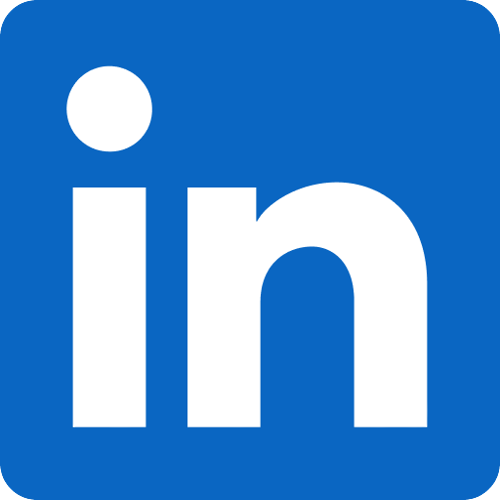
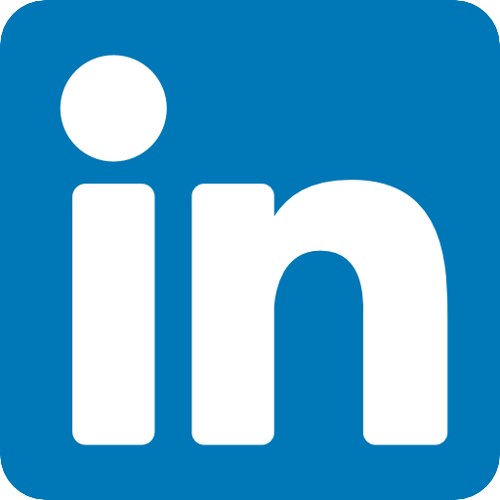
instagram + linkedin link added to nav

diff --git a/html/menagement.html b/html/menagement.html
@@ -15,6 +15,13 @@
         <a class="logo_white_link" href="../index.html">
             <img src="../imgs/logo_white.png" class="logo_white">
         </a>
+        <a class="linkedin-logo" href="https://www.linkedin.com/company/fsuminho/">
+            <img src="../imgs/linkedin.png" class="linkedin-logo">
+        </a>
+
+        <a class="insta-logo" href="https://www.instagram.com/fsuminho/">
+            <img src="../imgs/insta.png">
+        </a>
 
         <a class="contact-button" href="../html/contact.html">
             Contact

diff --git a/html/parteners.html b/html/parteners.html
@@ -16,6 +16,14 @@
             <img src="../imgs/logo_white.png" class="logo_white">
         </a>
 
+        <a class="linkedin-logo" href="https://www.linkedin.com/company/fsuminho/">
+            <img src="../imgs/linkedin.png" class="linkedin-logo">
+        </a>
+
+        <a class="insta-logo" href="https://www.instagram.com/fsuminho/">
+            <img src="../imgs/insta.png">
+        </a>
+
         <a class="contact-button" href="../html/contact.html">
             Contact
         </a>

diff --git a/css/nav.css b/css/nav.css
@@ -38,5 +38,27 @@
 }
 
 .contact-button:hover {
-    transform: scale(1.04);
+    transform: scale(1.05);
+}
+
+.insta-logo {
+    transform: scale(14%);
+    margin-right: -140px;
+    transition: all .2s ease-in-out;
+}
+
+.insta-logo:hover {
+    cursor: pointer;
+    transform: scale(0.15);
+}
+
+.linkedin-logo {
+    transform: scale(27%);
+    margin-right: -227px;
+    transition: all .2s ease-in-out;
+}
+
+.linkedin-logo:hover {
+    cursor: pointer;
+    transform: scale(0.28);
 }

diff --git a/index.html b/index.html
@@ -17,6 +17,14 @@
             <img src="imgs/logo_white.png" class="logo_white">
         </a>
 
+        <a class="linkedin-logo" href="https://www.linkedin.com/company/fsuminho/">
+            <img src="imgs/linkedin.png" class="linkedin-logo">
+        </a>
+
+        <a class="insta-logo" href="https://www.instagram.com/fsuminho/">
+            <img src="imgs/insta.png">
+        </a>
+
         <a class="contact-button" href="html/contact.html">
             Contact
         </a>
